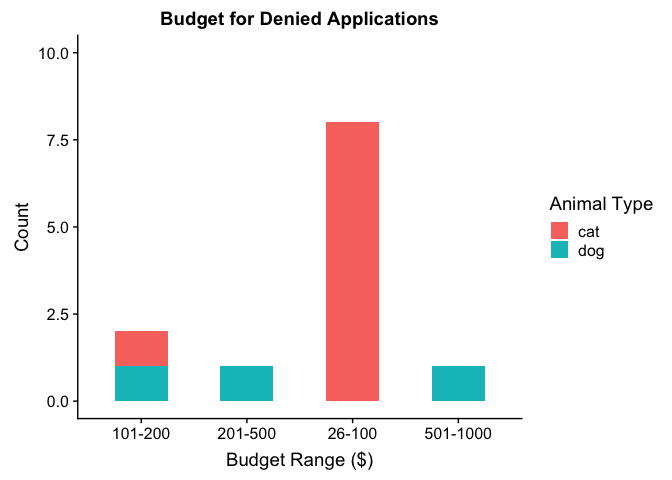
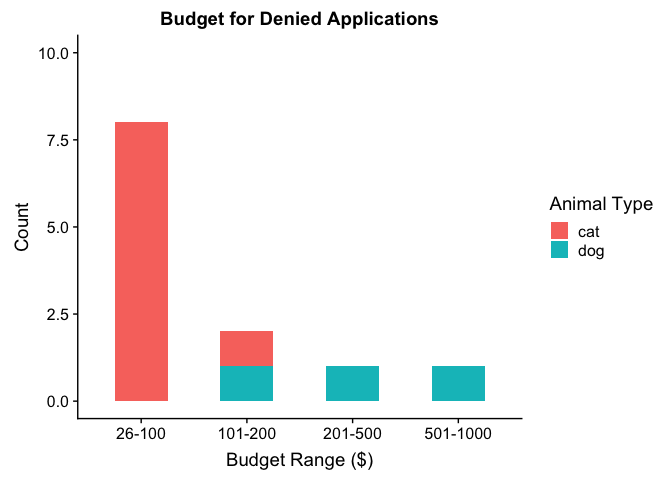
updated budget ordering

diff --git a/Analyses/2_Applicants/final_analyses/q4_denied_applications.md b/Analyses/2_Applicants/final_analyses/q4_denied_applications.md
@@ -124,6 +124,19 @@ Visualization and further analysis for applications that were denied
 </pre>
 ``` r
 #budget, all household agree, allergies, homeowner, home pet policy (lot of NA), experience
+dplyr::count(df_denied, budget_monthly_ranges)
+```
+
+| budget\_monthly\_ranges |    n|
+|:------------------------|----:|
+| 101-200                 |    2|
+| 201-500                 |    1|
+| 26-100                  |    8|
+| 501-1000                |    1|
+
+``` r
+df_denied$budget_monthly_ranges <- factor(df_denied$budget_monthly_ranges,levels = c("26-100", "101-200", "201-500", "501-1000"))
+
 ggplot(df_denied, aes(x=budget_monthly_ranges)) + 
   geom_bar(aes(fill=animal_type), width=.5) +
   ggtitle("Budget for Denied Applications") +
@@ -220,6 +233,8 @@ Visualization and further analysis for applications that are red flagged
 ------------------------------------------------------------------------
 
 ``` r
+#df_redflag$label_names
+
 #For the applications that are red flgged, how many end up becoming adopted
 dplyr::count(df_redflag, outcome_date) #129/133 did not result in an adoption or application is still in progress
 ```
